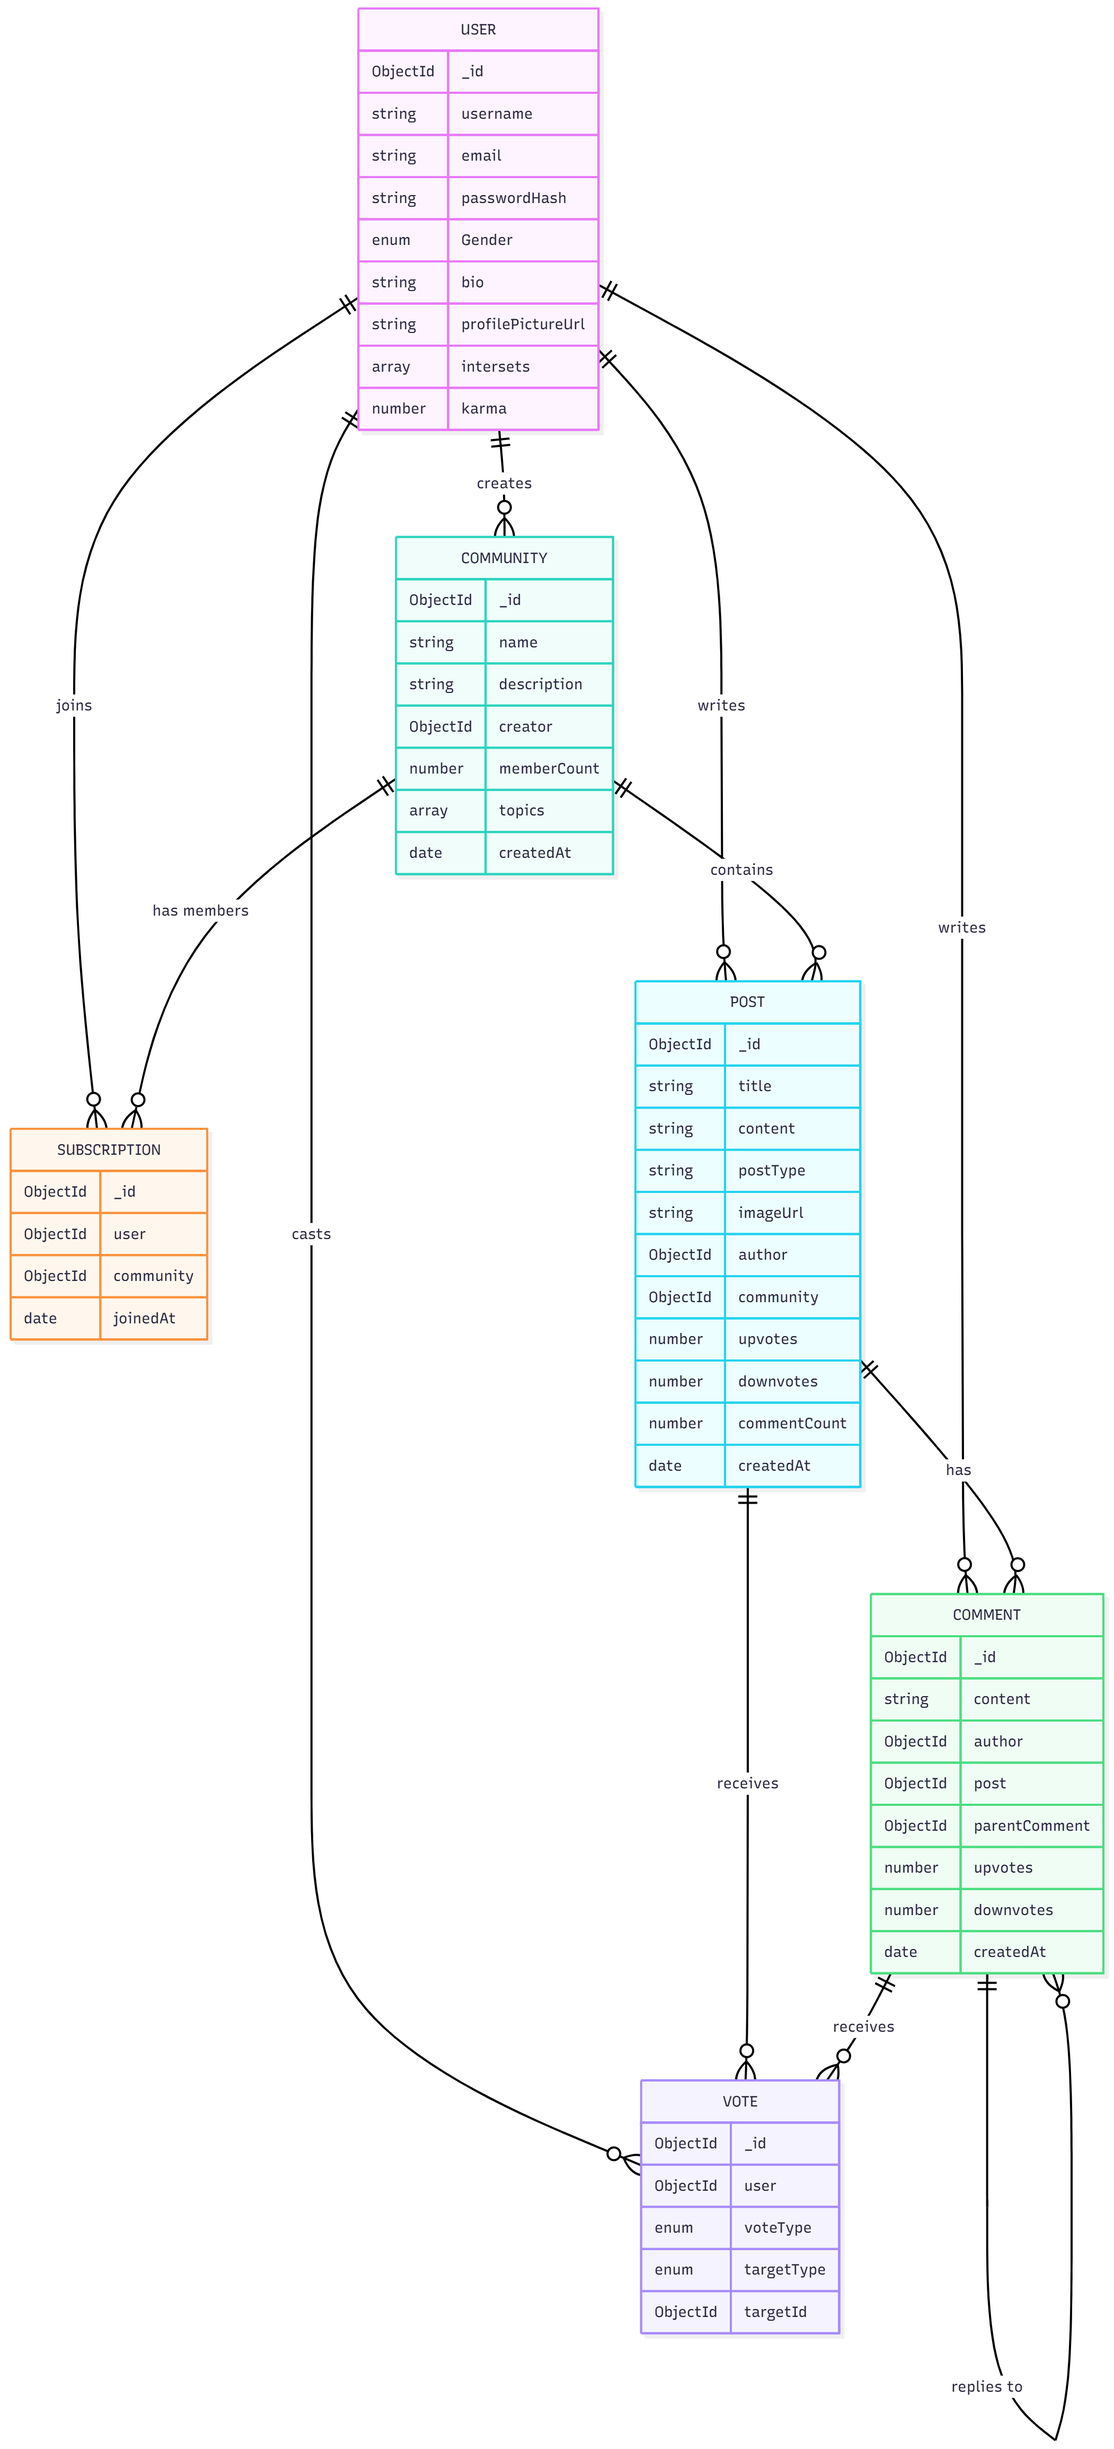
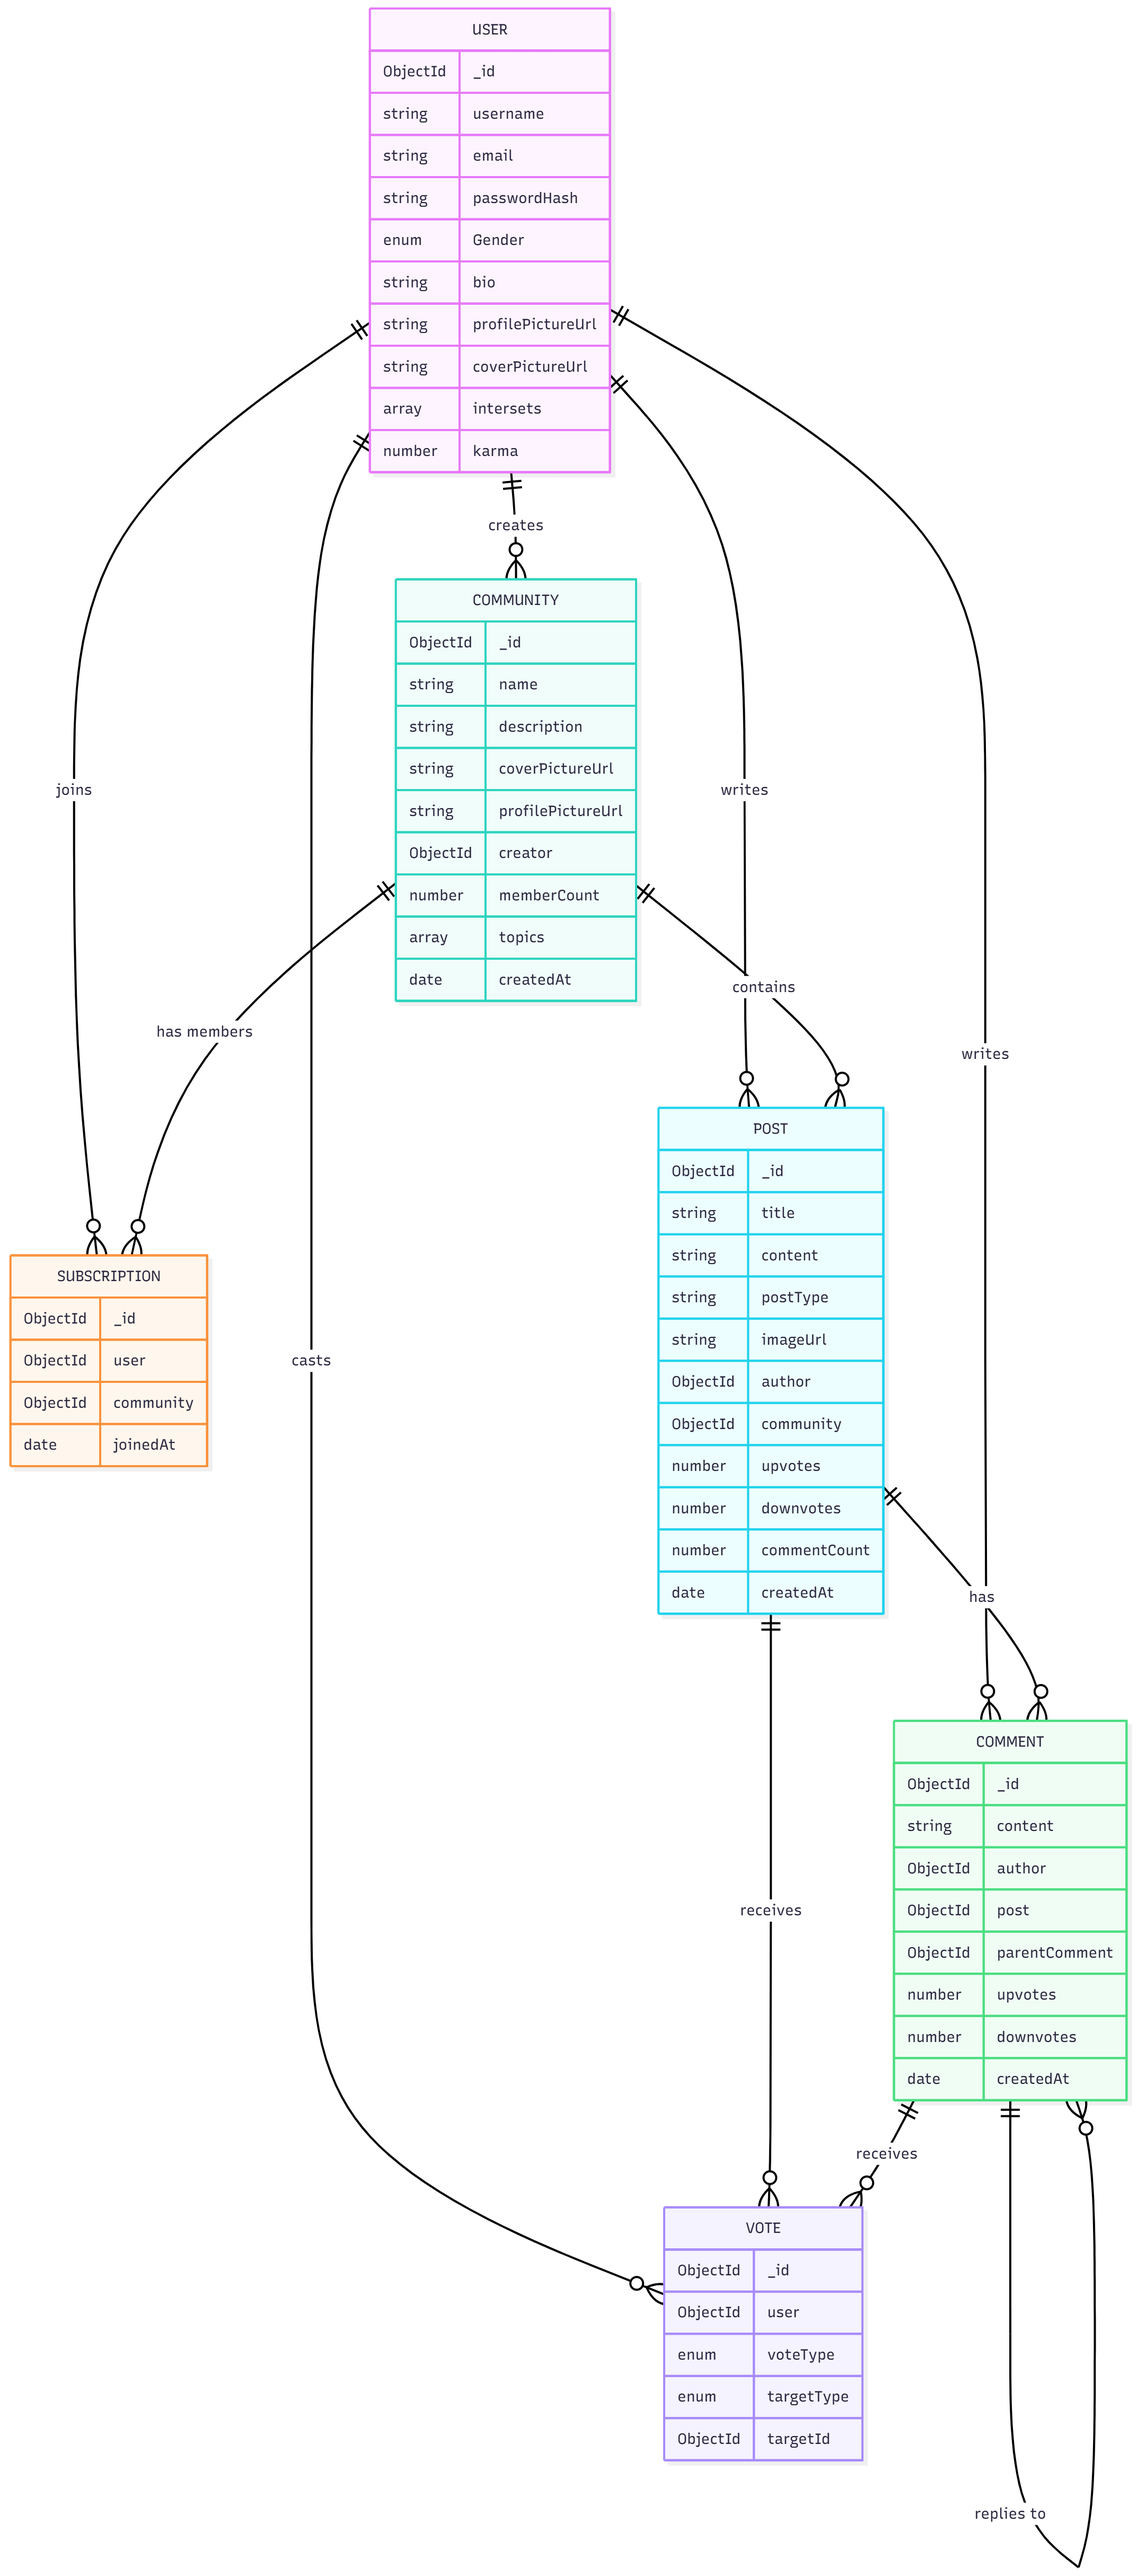
Add core Mongoose models for social platform
Introduces models for comments, communities, posts, subscriptions, and votes in the backend using Mongoose. Updates the user model to include cover picture and interests. Minor formatting fix in App.jsx and updates the database diagram image.

diff --git a/Backend/models/postModel.js b/Backend/models/postModel.js
@@ -1,0 +1,52 @@
+import mongoose from "mongoose";
+
+const postSchema = new mongoose.Schema(
+  {
+    title: {
+      type: String,
+      required: true,
+      trim: true,
+      maxlength: 300,
+    },
+    content: {
+      type: String,
+      required: false, // Content might be optional if it's an image post
+    },
+    postType: {
+      type: String,
+      enum: ["text", "image", "link"],
+      default: "text",
+      required: true,
+    },
+    imageUrl: {
+      type: String,
+      default: "",
+    },
+    author: {
+      type: mongoose.Schema.Types.ObjectId,
+      ref: "User",
+      required: true,
+    },
+    community: {
+      type: mongoose.Schema.Types.ObjectId,
+      ref: "Community",
+      required: true,
+    },
+    upvotes: {
+      type: Number,
+      default: 0,
+    },
+    downvotes: {
+      type: Number,
+      default: 0,
+    },
+    commentCount: {
+      type: Number,
+      default: 0,
+    },
+  },
+  { timestamps: true }
+);
+
+const Post = mongoose.model("Post", postSchema);
+export default Post;

diff --git a/Backend/models/communityModel.js b/Backend/models/communityModel.js
@@ -1,0 +1,44 @@
+import mongoose from "mongoose";
+
+const communitySchema = new mongoose.Schema(
+  {
+    name: {
+      type: String,
+      required: true,
+      unique: true,
+      trim: true,
+      minlength: 3,
+      maxlength: 30,
+    },
+    description: {
+      type: String,
+      required: true,
+      maxlength: 500,
+    },
+    coverPictureUrl: {
+      type: String,
+      default: "",
+    },
+    profilePictureUrl: {
+      type: String,
+      default: "",
+    },
+    creator: {
+      type: mongoose.Schema.Types.ObjectId,
+      ref: "User",
+      required: true,
+    },
+    memberCount: {
+      type: Number,
+      default: 1, 
+    },
+    topics: [{
+      type: String,
+      trim: true,
+    }],
+  },
+  { timestamps: true }
+);
+
+const Community = mongoose.model("Community", communitySchema);
+export default Community;

diff --git a/Backend/models/voteModel.js b/Backend/models/voteModel.js
@@ -1,0 +1,33 @@
+import mongoose from "mongoose";
+
+const voteSchema = new mongoose.Schema(
+  {
+    user: {
+      type: mongoose.Schema.Types.ObjectId,
+      ref: "User",
+      required: true,
+    },
+    voteType: {
+      type: String,
+      enum: ["up", "down"],
+      required: true,
+    },
+    targetType: {
+      type: String,
+      enum: ["Post", "Comment"], // Matches model names for dynamic ref
+      required: true,
+    },
+    targetId: {
+      type: mongoose.Schema.Types.ObjectId,
+      required: true,
+      refPath: 'targetType', // Allows population based on targetType
+    },
+  },
+  { timestamps: true }
+);
+
+// Ensure a user can only vote once per target
+voteSchema.index({ user: 1, targetId: 1, targetType: 1 }, { unique: true });
+
+const Vote = mongoose.model("Vote", voteSchema);
+export default Vote;

diff --git a/Backend/models/commentModel.js b/Backend/models/commentModel.js
@@ -1,0 +1,38 @@
+import mongoose from "mongoose";
+
+const commentSchema = new mongoose.Schema(
+  {
+    content: {
+      type: String,
+      required: true,
+      trim: true,
+    },
+    author: {
+      type: mongoose.Schema.Types.ObjectId,
+      ref: "User",
+      required: true,
+    },
+    post: {
+      type: mongoose.Schema.Types.ObjectId,
+      ref: "Post",
+      required: true,
+    },
+    parentComment: {
+      type: mongoose.Schema.Types.ObjectId,
+      ref: "Comment",
+      default: null, 
+    },
+    upvotes: {
+      type: Number,
+      default: 0,
+    },
+    downvotes: {
+      type: Number,
+      default: 0,
+    },
+  },
+  { timestamps: true }
+);
+
+const Comment = mongoose.model("Comment", commentSchema);
+export default Comment;

diff --git a/Backend/models/subscriptionModel.js b/Backend/models/subscriptionModel.js
@@ -1,0 +1,23 @@
+import mongoose from "mongoose";
+
+const subscriptionSchema = new mongoose.Schema(
+  {
+    user: {
+      type: mongoose.Schema.Types.ObjectId,
+      ref: "User",
+      required: true,
+    },
+    community: {
+      type: mongoose.Schema.Types.ObjectId,
+      ref: "Community",
+      required: true,
+    },
+  },
+  { timestamps: { createdAt: "joinedAt", updatedAt: false } }
+);
+
+// Ensure a user can only join a specific community once
+subscriptionSchema.index({ user: 1, community: 1 }, { unique: true });
+
+const Subscription = mongoose.model("Subscription", subscriptionSchema);
+export default Subscription;

diff --git a/Frontend/src/App.jsx b/Frontend/src/App.jsx
@@ -41,7 +41,7 @@ function App() {
               <Route path="/" element={<HomePage />} />
               <Route path="/popular" element={<PopularPage />} />
               <Route path="/explore" element={<ExplorePage />} />
- <Route path="/user/:username" element={<UserProfilePage />} />
+              <Route path="/user/:username" element={<UserProfilePage />} />
               {/* The route from YOUR branch */}
               <Route path="/community/:name" element={<CommunityPage />} />
             </Routes>

diff --git a/Backend/models/userModel.js b/Backend/models/userModel.js
@@ -43,6 +43,14 @@ const userSchema = new mongoose.Schema(
       type: String,
       default: "", 
     },
+    coverPictureUrl: {
+      type: String,
+      default: "",
+    },
+    interests: [{
+      type: String,
+      trim: true,
+    }],
     karma: {
       type: Number,
       default: 0,
